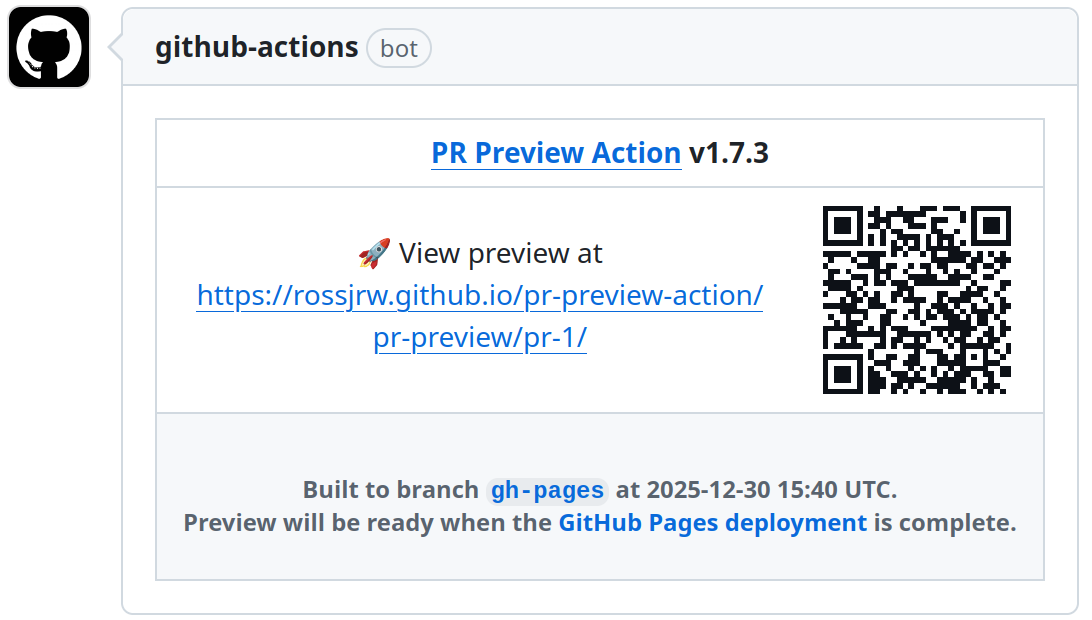
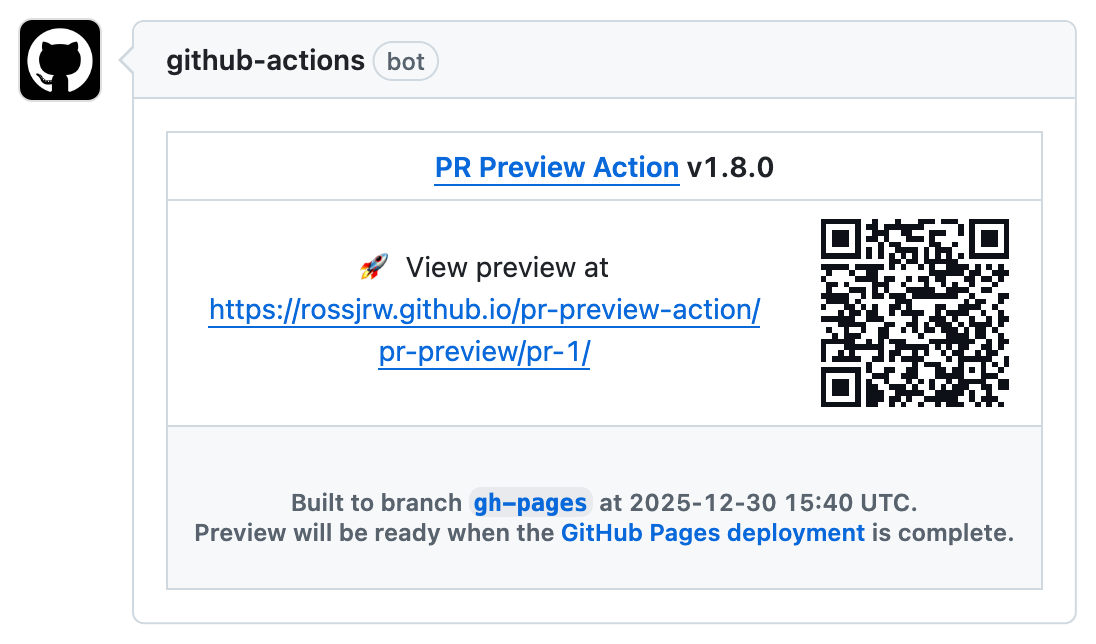
Automate readme screenshots

Changed region(s): [[0.0, 0.0, 0.9963, 1.0], [0.1868, 0.4597, 0.7161, 0.5823], [0.3114, 0.3677, 0.5604, 0.429]]

diff --git a/.github/scripts/screenshot-comment.js b/.github/scripts/screenshot-comment.js
@@ -1,0 +1,152 @@
+#!/usr/bin/env node
+
+// Screenshot generator for readme
+
+const { firefox } = require("playwright");
+const { execSync } = require("child_process");
+const { readFileSync } = require("fs");
+const { imageSize } = require("image-size");
+
+async function main() {
+    const version = execSync(
+        'git describe --tags --match "v*.*.*" --abbrev=0',
+        { encoding: "utf-8" }
+    ).trim();
+    const browser = await firefox.launch({ headless: true });
+    const page = await browser.newPage({
+        viewport: { width: 1280, height: 1024 },
+        deviceScaleFactor: 2,
+    });
+
+    console.log("Loading PR page...");
+    await page.goto("https://github.com/rossjrw/pr-preview-action/pull/1", {
+        waitUntil: "domcontentloaded",
+    });
+    await page.waitForTimeout(2000);
+    console.log("Page loaded");
+
+    console.log("Cleaning up comment...");
+    await page.evaluate((newVersion) => {
+        const style = document.createElement("style");
+        style.textContent = `
+          .TimelineItem::before,
+          .timeline-comment-actions,
+          .details-overlay{
+            display: none !important;
+          }
+          .timeline-comment .comment-body table {
+            margin-bottom: 0;
+          }
+          .timeline-comment {
+            max-width: fit-content;
+          }
+          .timeline-comment-header > * {
+            font-size: 0 !important;
+          }
+          .timeline-comment-header strong {
+            font-size: 0.875rem !important;
+          }
+        `;
+        document.head.appendChild(style);
+
+        const links = document.querySelectorAll(
+            'a[href="/apps/github-actions"]'
+        );
+        let commentGroup = null;
+        for (const link of links) {
+            commentGroup = link.closest(".timeline-comment-group");
+            if (commentGroup) break;
+        }
+
+        if (!commentGroup) return { error: "Comment group not found" };
+
+        // Replace version number
+        let versionReplaced = 0;
+        const walker = document.createTreeWalker(
+            commentGroup,
+            NodeFilter.SHOW_TEXT,
+            null
+        );
+        const nodes = [];
+        while (walker.nextNode()) {
+            nodes.push(walker.currentNode);
+        }
+        nodes.forEach((node) => {
+            if (node.textContent && node.textContent.match(/v\d+\.\d+/)) {
+                node.textContent = node.textContent.replace(
+                    /v[\d\.\-a-z]+/g,
+                    newVersion
+                );
+                versionReplaced++;
+            }
+        });
+        return { versionReplaced };
+    }, version);
+
+    await page.waitForTimeout(500);
+
+    // Calculate bounding box that includes avatar and comment
+    const bounds = await page.evaluate(() => {
+        const links = document.querySelectorAll(
+            'a[href="/apps/github-actions"]'
+        );
+        let timelineItem = null;
+        for (const link of links) {
+            timelineItem = link.closest(".TimelineItem");
+            if (timelineItem) break;
+        }
+
+        if (!timelineItem) return null;
+
+        const avatar = timelineItem.querySelector(".TimelineItem-avatar");
+        const comment = timelineItem.querySelector(".timeline-comment");
+
+        if (!avatar || !comment) return null;
+
+        const avatarRect = avatar.getBoundingClientRect();
+        const commentRect = comment.getBoundingClientRect();
+
+        return {
+            x: Math.min(avatarRect.left, commentRect.left),
+            y: Math.min(avatarRect.top, commentRect.top),
+            right: Math.max(avatarRect.right, commentRect.right),
+            bottom: Math.max(avatarRect.bottom, commentRect.bottom),
+        };
+    });
+
+    if (!bounds) {
+        throw new Error("Could not calculate bounds");
+    }
+
+    const width = bounds.right - bounds.x;
+    const height = bounds.bottom - bounds.y;
+
+    console.log("Bounds:", { x: bounds.x, y: bounds.y, width, height });
+
+    const clipWidth = Math.round(width + 20);
+    const clipHeight = Math.round(height + 20);
+
+    console.log("Taking screenshot...");
+    await page.screenshot({
+        path: "sample-preview-link.png",
+        clip: {
+            x: Math.max(0, bounds.x - 10),
+            y: Math.max(0, bounds.y - 10),
+            width: clipWidth,
+            height: clipHeight,
+        },
+    });
+
+    const imageBuffer = readFileSync("sample-preview-link.png");
+    const dimensions = imageSize(imageBuffer);
+    console.log(
+        `Screenshot saved to sample-preview-link.png (${dimensions.width}x${dimensions.height}px)`
+    );
+
+    await browser.close();
+}
+
+main().catch((error) => {
+    console.error(error);
+    process.exit(1);
+});

diff --git a/README.md b/README.md
@@ -14,7 +14,7 @@ Features:
 Preview URLs look like this: `https://[owner].github.io/[repo]/pr-preview/pr-[number]/`
 
 <p align="center">
-  <img src="https://github.com/rossjrw/pr-preview-action/blob/main/.github/sample-preview-link.png" alt="Sample comment left by the action" width="546">
+  <img src="https://github.com/rossjrw/pr-preview-action/blob/main/.github/sample-preview-link.png" alt="Sample comment left by the action" width="548">
 </p>
 <p align="center">
   Pictured: https://github.com/rossjrw/pr-preview-action/pull/1
